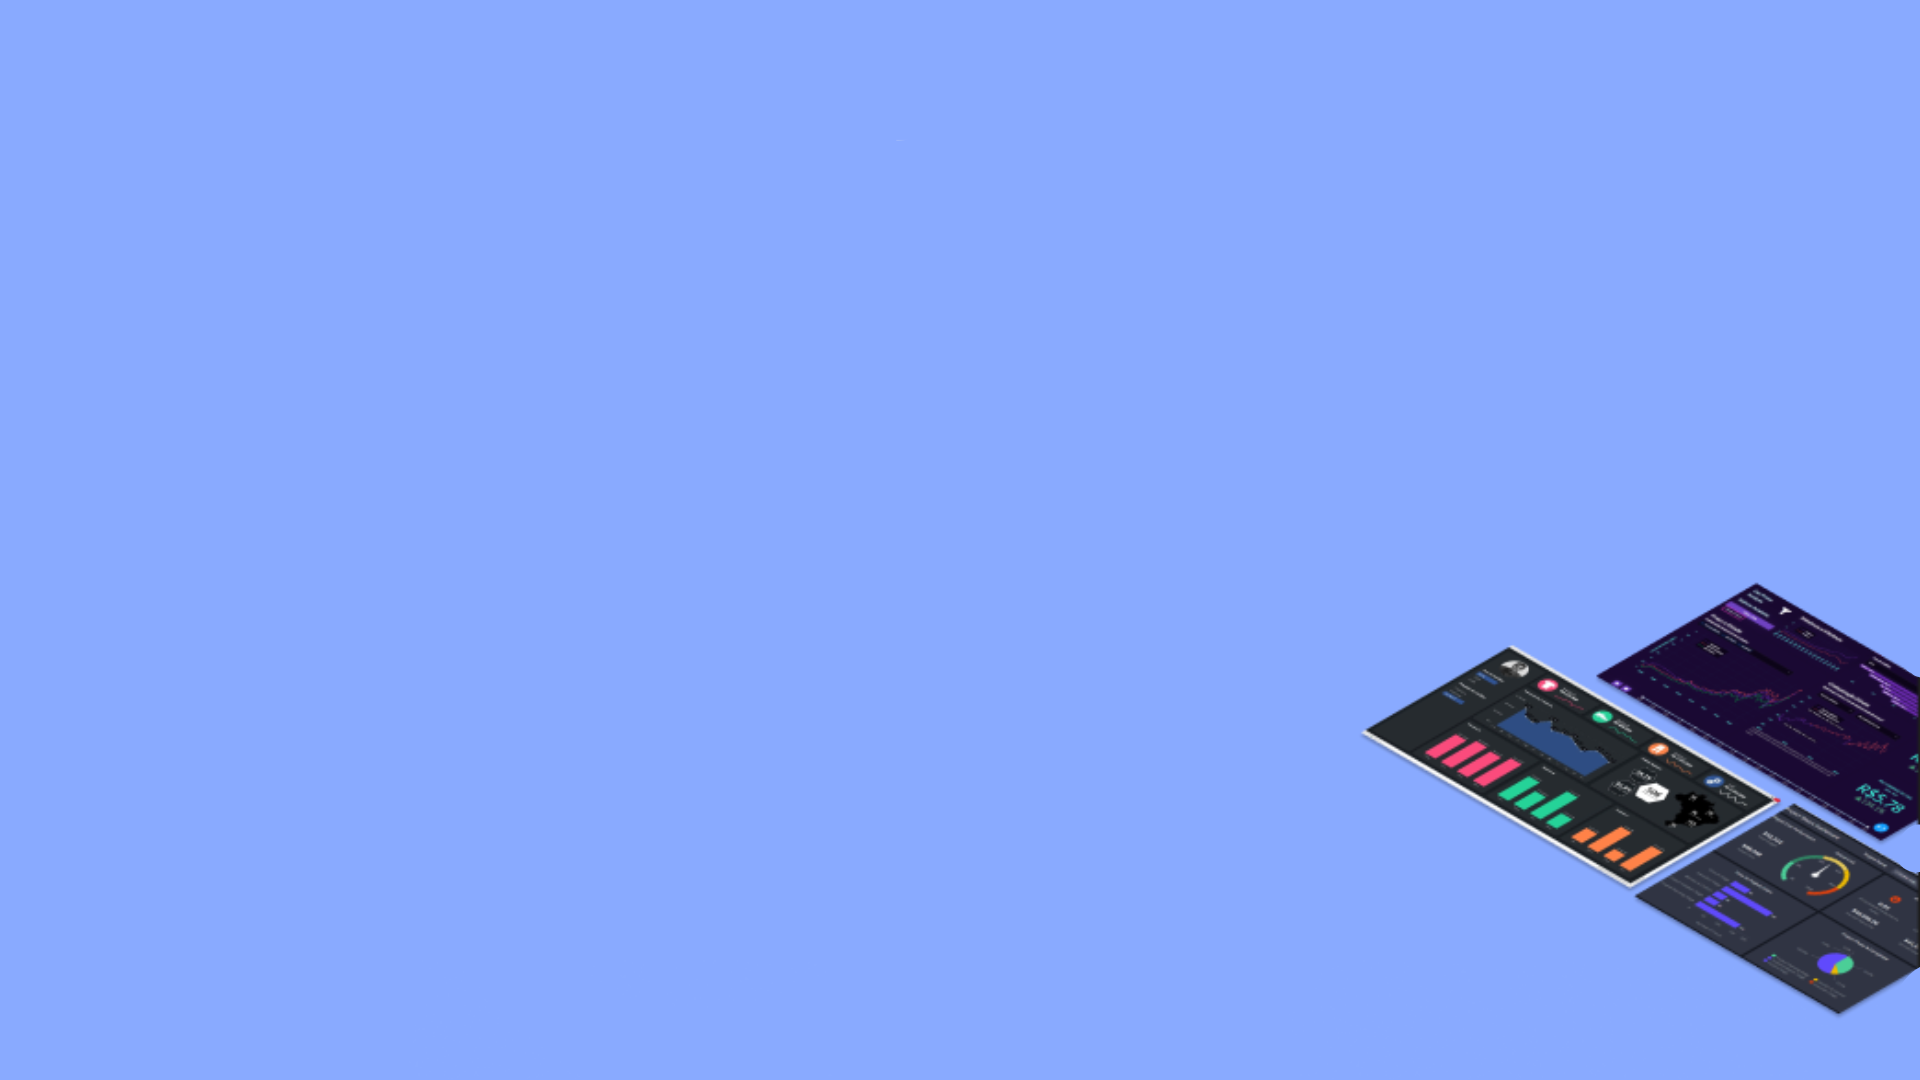
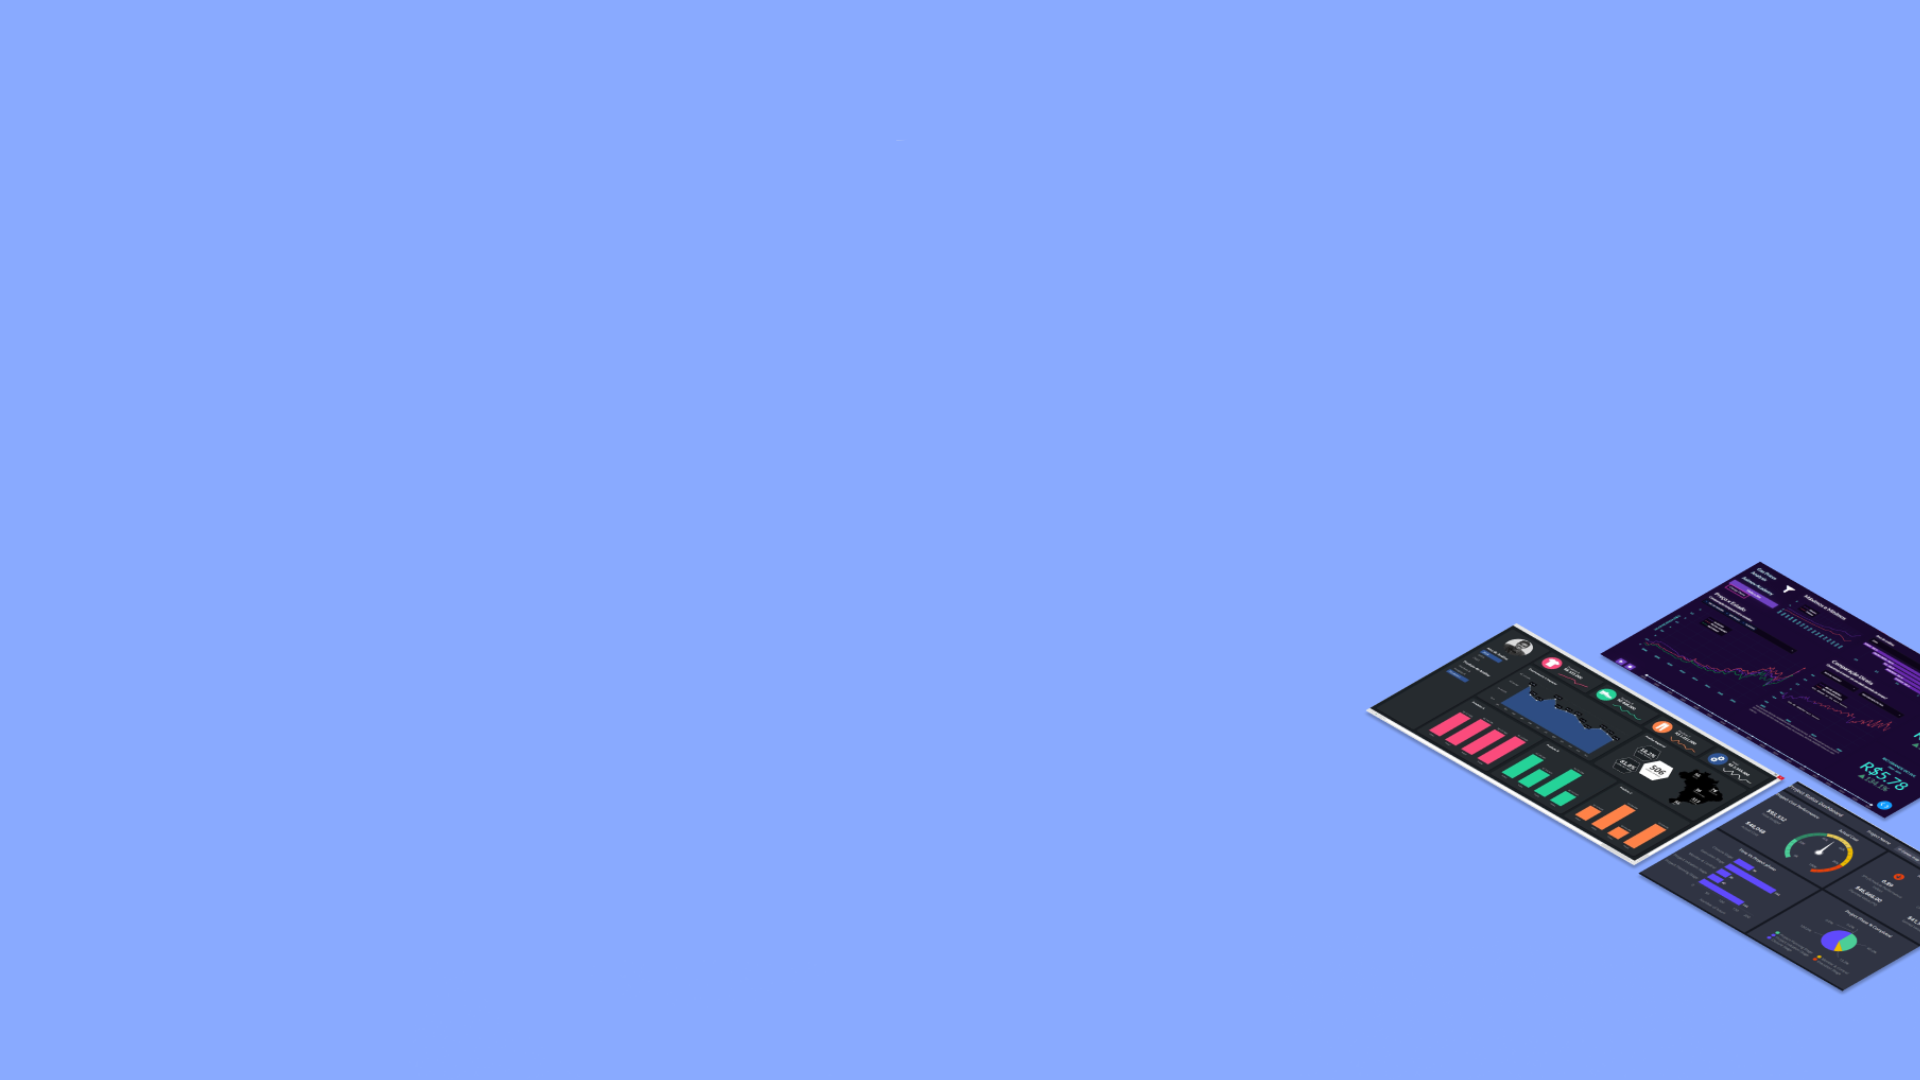
inicio box2 e 3

Changed region(s): [[0.6875, 0.5194, 1.0, 0.9472]]

diff --git a/public/css/StyleHome.css b/public/css/StyleHome.css
@@ -1,21 +1,18 @@
 * {
     padding: 0%;
     margin: 0%;
-    overflow-x: hidden;
-    font-family:'Franklin Gothic Medium', 'Arial Narrow', Arial, sans-serif, sans-serif;
-
 }
 
 nav {
     display: flex;
-    width: 100vw;
+    width: 100%;
     height: 9vh;
     background-color: #a9c0fa;
 }
 
 .logo_nav {
     display: flex;
-    width: 15vw;
+    width: 15%;
     justify-content: center;
     align-items: center;
     /* border: solid black 1px; */
@@ -50,7 +47,7 @@ nav {
 
 .btn_nav {
     display: flex;
-    width: 15vw;
+    width: 15%;
     justify-content: center;
     align-items: center;
 }
@@ -71,15 +68,16 @@ nav {
 
 .container {
     display: flex;
-    width: 100vw;
-    height: 150vh;
+    width: 100%;
+    height: 315vh;
+    flex-direction: column;
     overflow-y: hidden;
 }
 
 .box1 {
     display: flex;
-    width: 100vw;
-    height: 100vh;
+    width: 100%;
+    height: 105vh;
     background-image: url(../assets/imgs/Design\ sem\ nome.png);
     background-size: cover;
     align-items: center;
@@ -108,30 +106,58 @@ nav {
     align-items: center;
     height: 13vh;
 }
-.seta img{
-    width: 20%;
+
+.seta img {
+    width: 15%;
 }
 
 .texto_baixo {
     display: flex;
     font-size: 20px;
-    width: 30vw;
-    border: 1px solid red;
+    width: 30%;
+    /* border: 1px solid red; */
+}
+
+.box2 {
+    display: flex;
+    width: 100%;
+    height: 105vh;
+    background: linear-gradient(#89AAFF,#a9c0fa ,#EFEFEF);
+}
+
+.parc{
+    display: flex;
+    width: 100%;
+    height: 5vh;
+    justify-content: center;
+    align-items: center;
+    /* border: 1px solid red; */
+}
+
+.parc h1{
+    font-size: 38px;
+}
+
+.box3{
+    display: flex;
+    width: 100%;
+    height: 105vh;
+    background-color:#EFEFEF ;
 }
 
 
 @media screen and (max-width: 1024px) {
 
     .logo_nav {
-        width: 20vw;
+        width: 20%;
     }
 
     .mid_nav {
-        width: 60vw;
+        width: 60%;
     }
 
     .btn_nav {
-        width: 20vw;
+        width: 20%;
     }
 
     .btn_nav button {
@@ -144,7 +170,7 @@ nav {
 @media screen and (max-width: 720px) {
 
     .logo_nav {
-        width: 50vw;
+        width: 50%;
     }
 
     .mid_nav {
@@ -152,7 +178,7 @@ nav {
     }
 
     .btn_nav {
-        width: 50vw;
+        width: 50%;
     }
 
     .btn_nav button {

diff --git a/public/HomePCLVision.html b/public/HomePCLVision.html
@@ -49,8 +49,24 @@
             </div>
         </div>
 
+        <div class="box2">
+
+            <div class="parc">
+
+                <h1>Parceiros</h1>
+
+            </div>
+
+            <div class="carrossel">
 
 
+                
+            </div>
+
+        </div>
+        <div class="box3">
+
+        </div>
 
 
 
